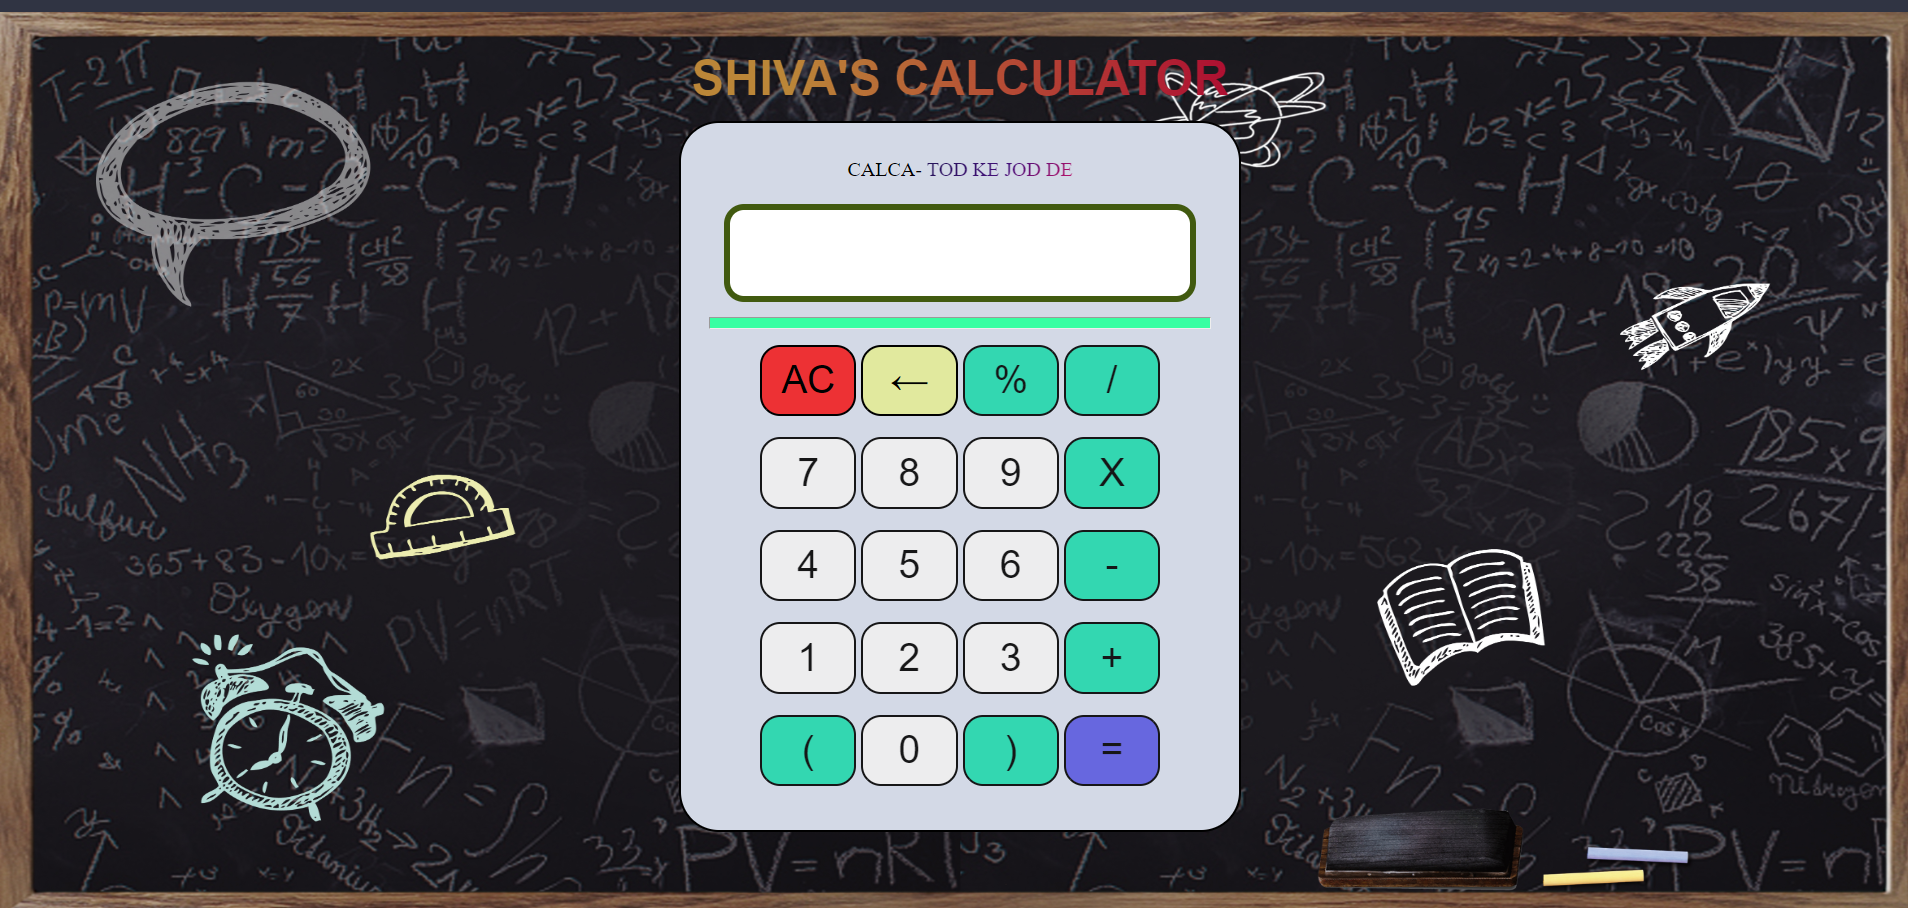
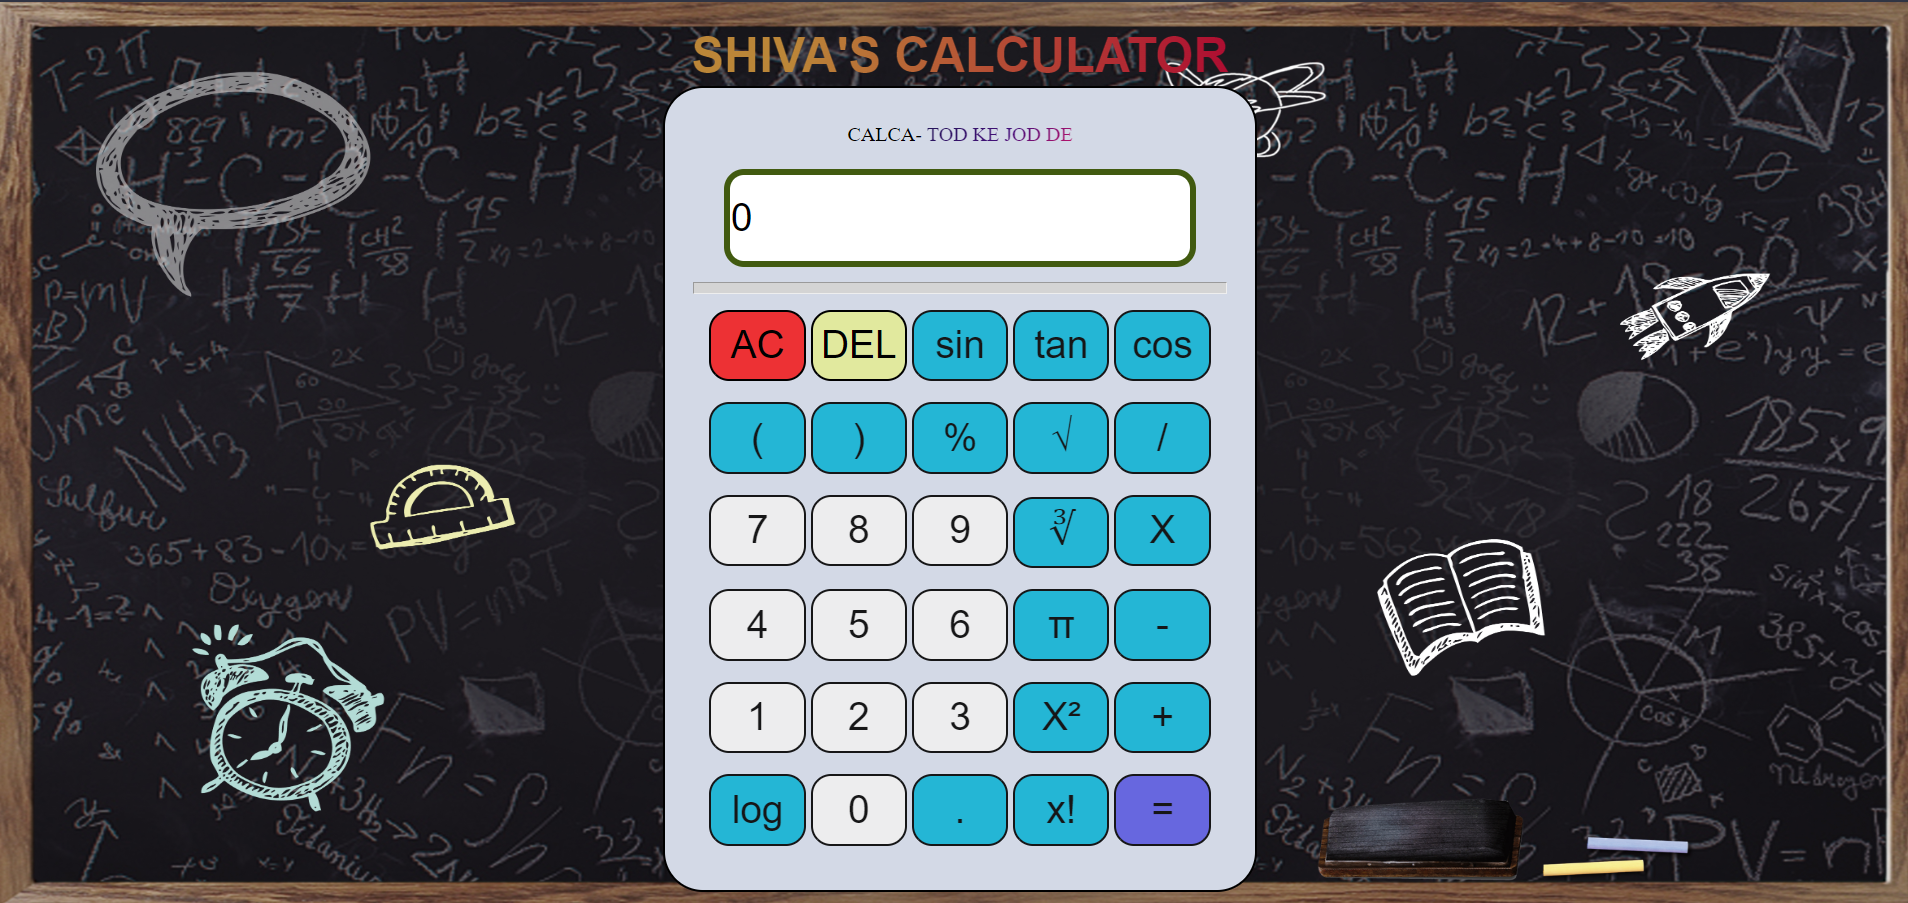
change

diff --git a/portfolio.html b/portfolio.html
@@ -120,7 +120,7 @@
   <div class="max-w-screen-xl px-4 py-16 mx-auto sm:px-6 lg:px-8 sm:py-24">
     <div class="max-w-3xl">
       <h2 class="text-3xl font-bold sm:text-4xl">
-        2.Shiva's Calculator
+        2.Shiva's Scientific  Calculator
       </h2>
     </div>
 
@@ -132,7 +132,7 @@
       <div class="lg:py-24">
         <article class="space-y-1.5  text-gray-600">
           <p>
-            In this Project, you are able to calculate some mathematical operation like + ,- ,* ,% ,/ etc.
+            In this Project, you are able to calculate some mathematical operation like + ,- ,* ,% ,/,log , trignometric fun , roots, and many more.
           </p>
 
           <br>
